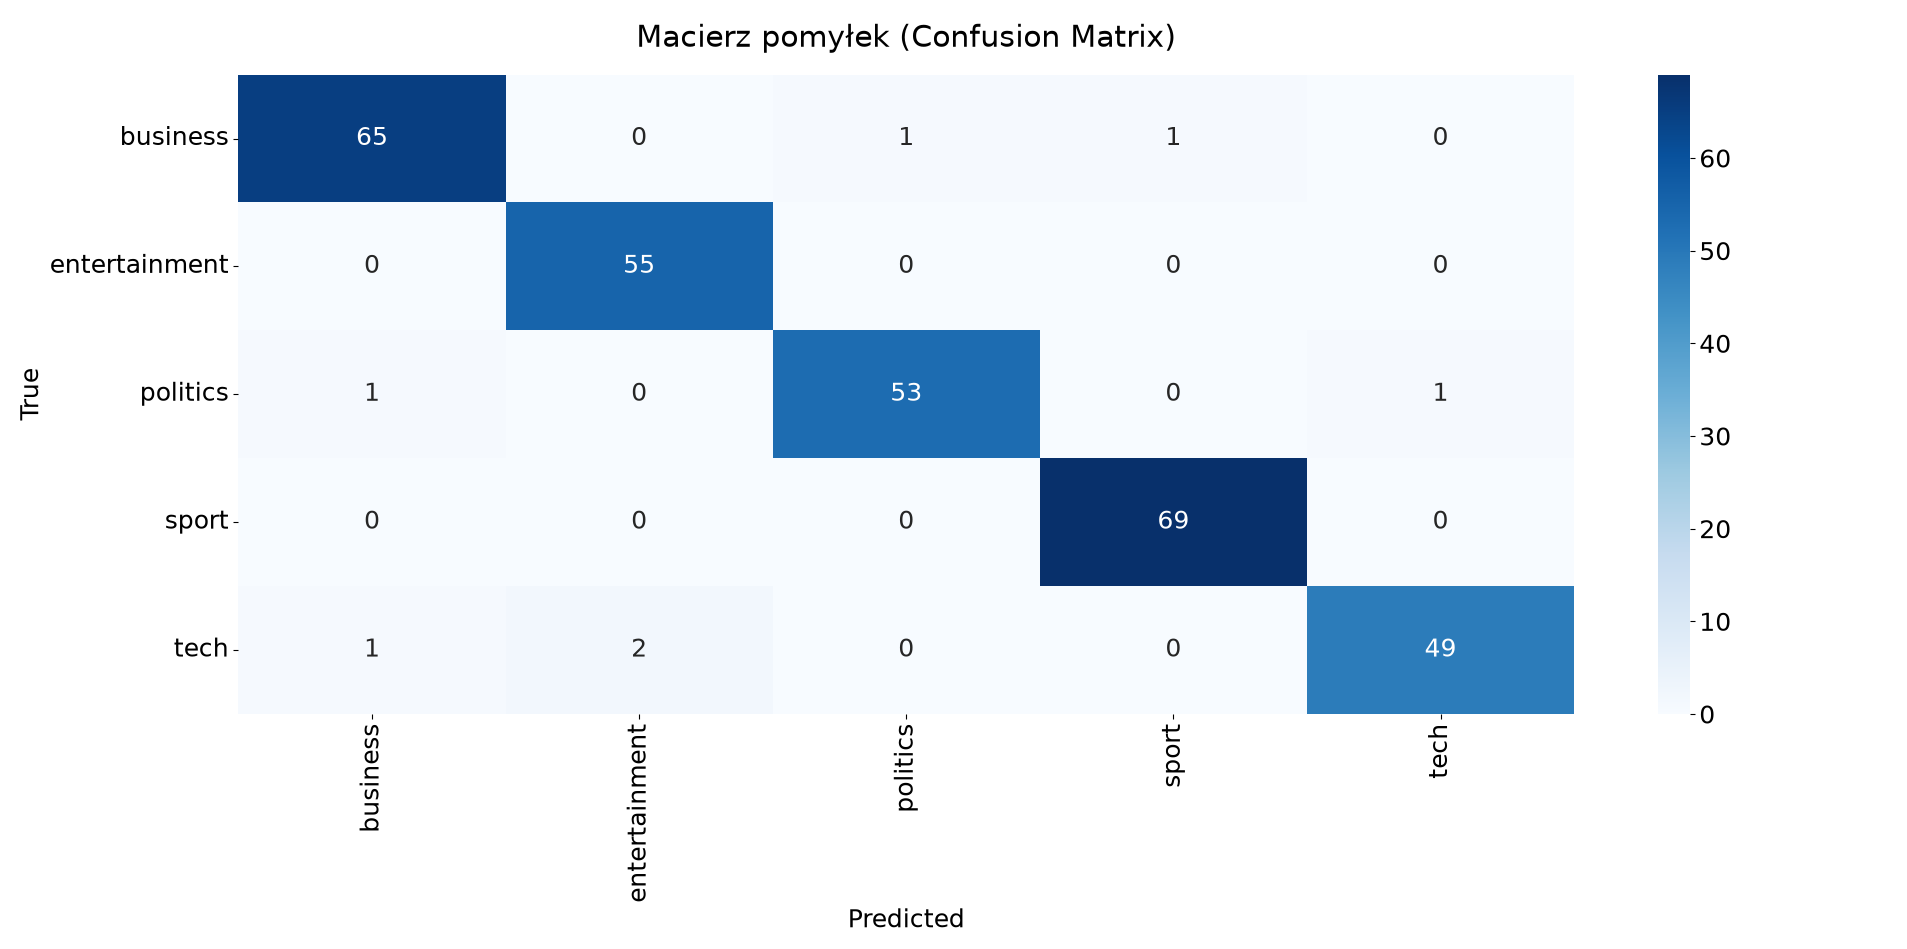
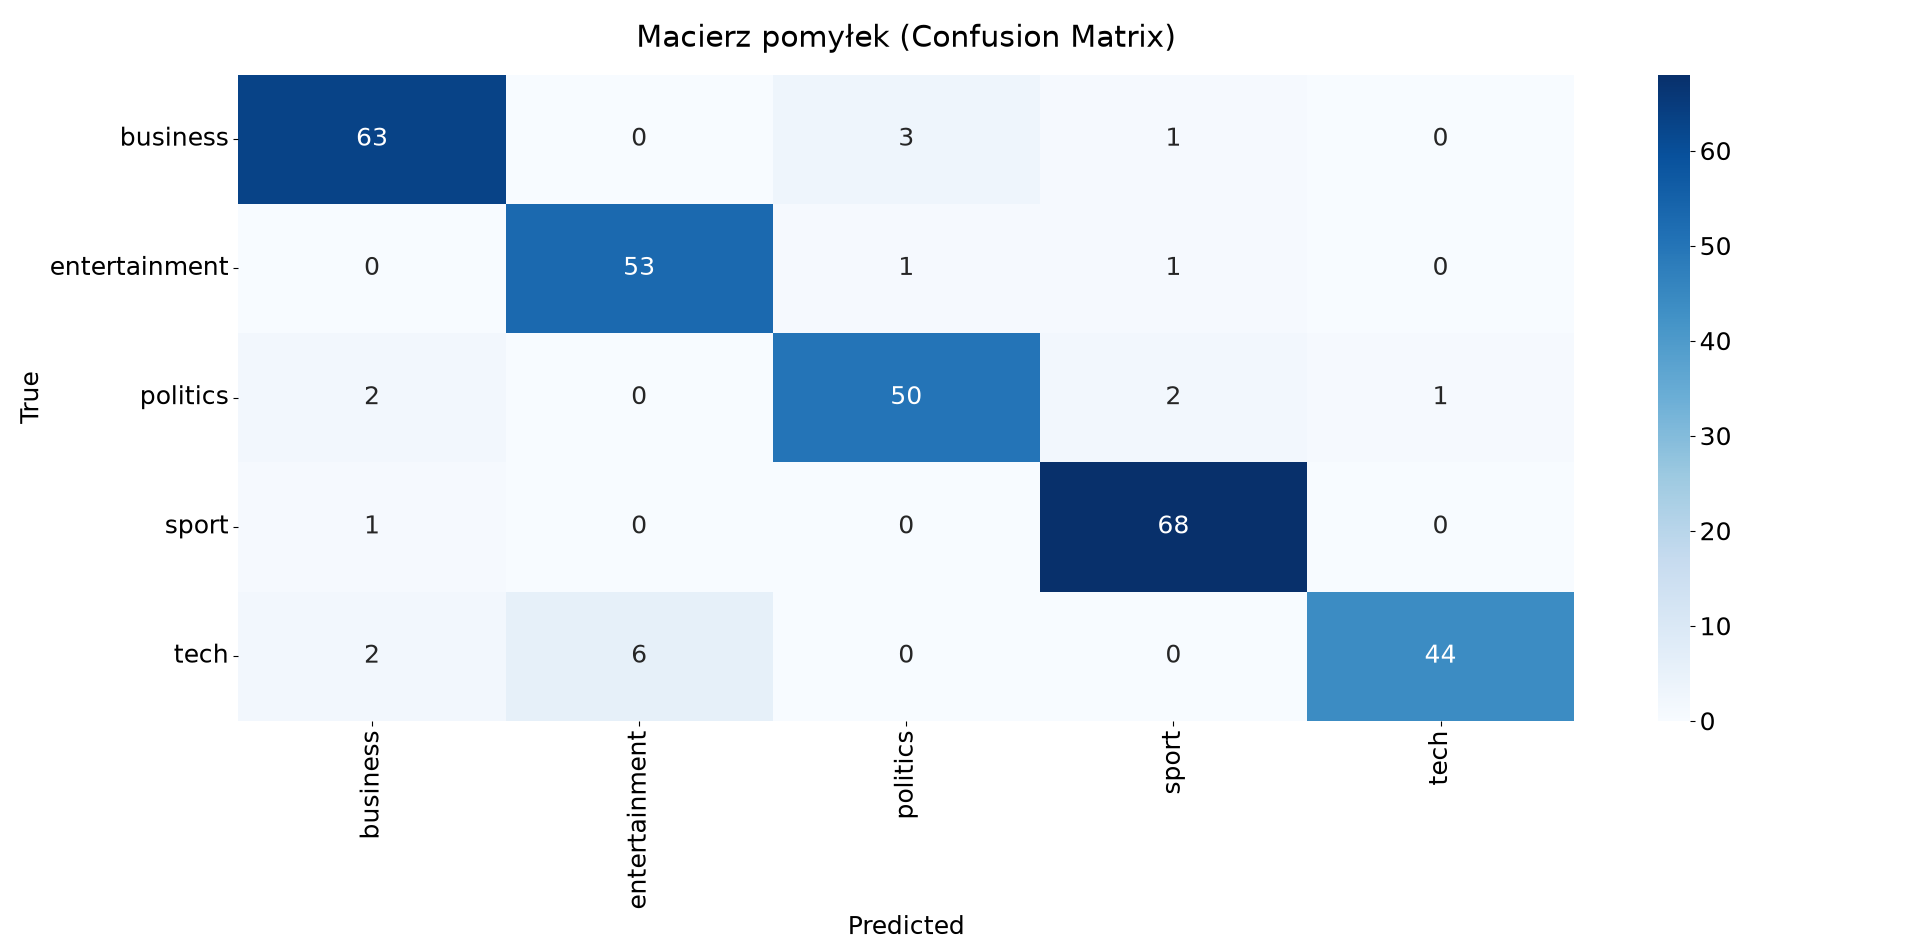
fix: use correct model_path in load_model() method

diff --git a/main.py b/main.py
@@ -39,7 +39,7 @@ def tfidf_svc_pipeline(args: Any | None = None, model_path: Path = Path.cwd() / 
     X_test = nlp.clean.apply_nlp(X_test, args, stemmer=stemmer, nlp_obj=nlp_obj)
 
     if model_path.exists():
-        model = nlp.predict.load_model()
+        model = nlp.predict.load_model(model_path)
     else:
         X_train = nlp.clean.apply_nlp(X_train, args, stemmer=stemmer, nlp_obj=nlp_obj)
         print(f"Model has not beed found: {model_path}\nTraining model...\n")
@@ -68,10 +68,10 @@ def tfidf_svc_pipeline(args: Any | None = None, model_path: Path = Path.cwd() / 
 
 if __name__ == "__main__":
     parser = argparse.ArgumentParser()
-    parser.add_argument("-s", "--submit", action="store_true", help="Wygeneruj plik submission_kaggle.csv")
+    parser.add_argument("--submit", action="store_true", help="Wygeneruj plik submission_kaggle.csv")
     group = parser.add_mutually_exclusive_group()
     group.add_argument("-n", "--no-norm", action="store_true", help="Nie normalizuj tekstu")
-    group.add_argument("-st", "--stem", action="store_true", help="Stemming tekstu")
+    group.add_argument("-s", "--stem", action="store_true", help="Stemming tekstu")
     group.add_argument("-l", "--lem", action="store_true", help="Lematyzacja tekstu")
     args = parser.parse_args()
 

diff --git a/src/nlp_rag_proj/predict.py b/src/nlp_rag_proj/predict.py
@@ -9,7 +9,7 @@ import seaborn as sns
 import matplotlib.pyplot as plt
 
 
-def load_model(load_path: Path = Path(Path.cwd() / "models" / "tfidf_svc.joblib")):
+def load_model(load_path: Path):
 
     if not load_path.is_file():
         raise FileNotFoundError(f"Model nie istnieje pod ścieżką: {load_path}")

diff --git a/README.md b/README.md
@@ -9,6 +9,7 @@
 - [x] Opisać najważniejsze obserwacje
 - [x] Wynik na Kaggle
 - [x] Dodać Stemming i Lematyzacje
+- [ ] Dodać testy tokenization.py
 - [ ] RAG
 - [ ] Dodać sekcję instalacji
 
@@ -154,7 +155,7 @@ Wnioski z całości:
 
 
 6. **Wysłanie na Kaggle**
-   - Przygotowany zbiór testowy z konkursu na platformie Kaggle, składający się z 722 rekordów, został przepuszczony przez wytrenowane modele. Uzyskane predykcje zostały wysłane w formacie .csv jako *Late Submission*. Obowiązującą metryką w wyzwaniu była dokładność (*Accuracy*). Udało się osiągnąć wynik na poziomie **0.98367** równy dla każdego utworzonego modelu. Jest to wynik wyższy niż najwyższy rezultat znajdujący się obecnie w tabeli wyników (**0.98231**).
+   - Przygotowany zbiór testowy z konkursu na platformie Kaggle, składający się z 722 rekordów, został przepuszczony przez wytrenowane modele. Uzyskane predykcje zostały wysłane w formacie .csv jako *Late Submission*. Obowiązującą metryką w wyzwaniu była dokładność (*Accuracy*). Udało się osiągnąć wynik na poziomie **0.98367** dla modelu bez normalizacji tekstu. Użycie stemmingu pogorszyło wynik do **0.94421**, a lematyzacja do **0.97959**. Uzyskany wynik jest wyższy niż najwyższy rezultat znajdujący się obecnie w tabeli wyników (**0.98231**). Oznacza to, że w tym przypadku odpowiednie czyszczenie danych tekstowych było najlepszym rozwiązaniem.
 
 ## Źródło
 